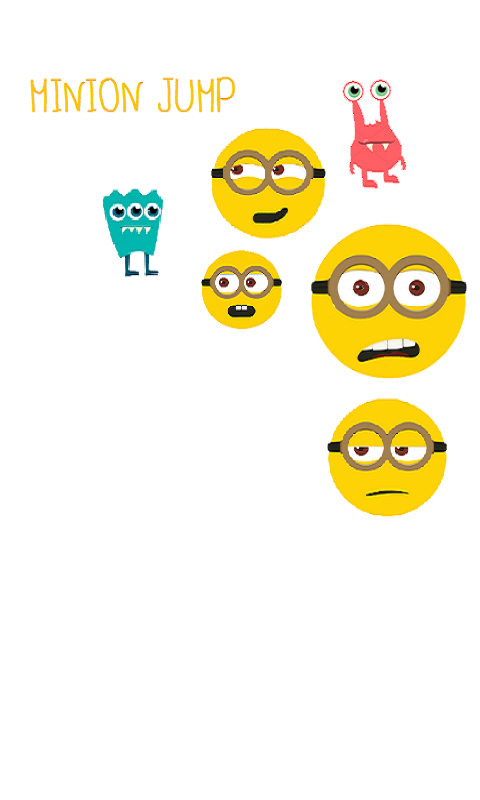
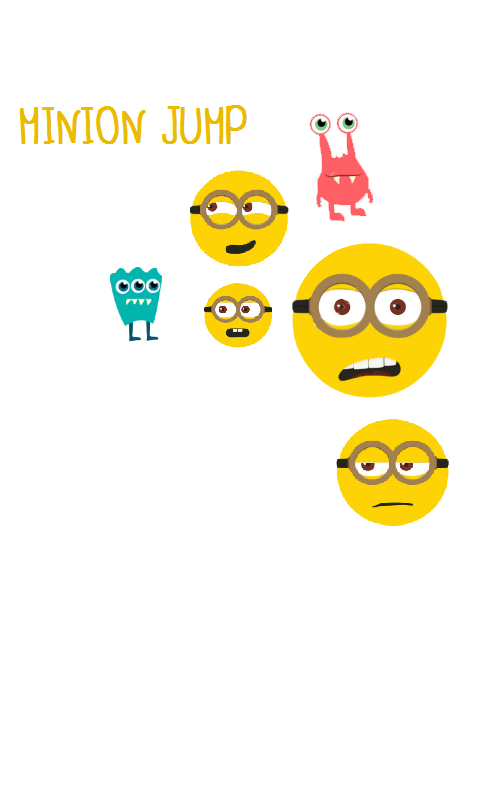
Added buttons of "Scores" and "Options" to main menu

Changed region(s): [[0.0312, 0.0938, 0.9688, 0.6562], [0.2188, 0.2188, 0.3438, 0.4375]]

diff --git a/core/src/com/minionjump/game/view/MainMenu.java b/core/src/com/minionjump/game/view/MainMenu.java
@@ -1,4 +1,4 @@
-package com.minionjump.game.States;
+package com.minionjump.game.view;
 
 import com.badlogic.gdx.Gdx;
 import com.badlogic.gdx.graphics.Texture;
@@ -9,20 +9,24 @@ import com.minionjump.game.MyMinionJump;
  * Created by Mariana on 08/05/2017.
  */
 
-public class MenuState extends State {
+public class MainMenu extends State {
     private Texture background;
     private Texture playBtn;
-    public MenuState(GameStateManager gam) {
+    private Texture scoresBtn;
+    private Texture optionsBtn;
+
+    public MainMenu(GameStateManager gam) {
         super(gam);
         background = new Texture("mainmenu.png");
         playBtn = new Texture("btnplay.png");
+        scoresBtn = new Texture("scores.png");
+        optionsBtn = new Texture("options.png");
     }
 
     @Override
     public void handleInput() {
         if(Gdx.input.justTouched()){
             gam.set(new PlayState(gam));
-            dispose();
         }
     }
 
@@ -35,7 +39,9 @@ public class MenuState extends State {
     public void render(SpriteBatch sb) {
         sb.begin();
         sb.draw(background,0,0, MyMinionJump.WIDTH, MyMinionJump.HEIGHT);
-        sb.draw(playBtn, (MyMinionJump.WIDTH/4)-(playBtn.getWidth()/4), MyMinionJump.HEIGHT/3);
+        sb.draw(playBtn, (MyMinionJump.WIDTH/4)-(playBtn.getWidth()/3), MyMinionJump.HEIGHT/3);
+        sb.draw(scoresBtn, (MyMinionJump.WIDTH) - (optionsBtn.getWidth()), scoresBtn.getHeight() - (scoresBtn.getHeight()-1));
+        sb.draw(optionsBtn, (MyMinionJump.WIDTH/2) - (scoresBtn.getWidth()/5), (optionsBtn.getHeight()-5) - (optionsBtn.getHeight()));
         sb.end();
     }
 
@@ -43,5 +49,8 @@ public class MenuState extends State {
     public void dispose() {
         background.dispose();
         playBtn.dispose();
+        scoresBtn.dispose();
+        optionsBtn.dispose();
+        System.out.println("Menu State Disposed");
     }
 }

diff --git a/core/src/com/minionjump/game/view/PlayState.java b/core/src/com/minionjump/game/view/PlayState.java
@@ -1,4 +1,4 @@
-package com.minionjump.game.States;
+package com.minionjump.game.view;
 
 import com.badlogic.gdx.Gdx;
 import com.badlogic.gdx.graphics.Texture;
@@ -13,7 +13,7 @@ import com.minionjump.game.model.Platform;
  */
 
 public class PlayState extends State {
-    private static final int PLATFORM_SPACING = 125;
+    private static final int PLATFORM_SPACING = 100;
     private static final int PLATFORM_COUNT = 6;
 
     private Minion minion;
@@ -23,7 +23,7 @@ public class PlayState extends State {
 
     public PlayState(GameStateManager gam) {
         super(gam);
-        minion = new Minion(50, 300);
+        minion = new Minion(150, 300);
         cam.setToOrtho(false, MyMinionJump.WIDTH, MyMinionJump.HEIGHT);
         bg = new Texture("background.png");
 
@@ -46,9 +46,14 @@ public class PlayState extends State {
         minion.update(dt);
         cam.position.y = minion.getPosition().y + 80;
 
-        for(Platform platform : platforms){
+        for(int i = 0; i < platforms.size; i++){
+            Platform platform = platforms.get(i);
+
             if(cam.position.x - (cam.viewportWidth / 2) > platform.getPosNormalPlatform().x + platform.getNormalPlatform().getWidth())
                 platform.reposition(platform.getPosNormalPlatform().x + ((Platform.PLATFORM_HEIGHT + PLATFORM_SPACING) * PLATFORM_COUNT));
+
+            if(platform.collides(minion.getBounds()))
+                minion.jump();
         }
         cam.update();
     }
@@ -68,6 +73,10 @@ public class PlayState extends State {
 
     @Override
     public void dispose() {
-
+        bg.dispose();
+        minion.dispose();
+        for(Platform platform : platforms)
+            platform.dispose();
+        System.out.println("Play State Disposed");
     }
 }

diff --git a/core/src/com/minionjump/game/model/Platform.java b/core/src/com/minionjump/game/model/Platform.java
@@ -1,6 +1,7 @@
 package com.minionjump.game.model;
 
 import com.badlogic.gdx.graphics.Texture;
+import com.badlogic.gdx.math.Rectangle;
 import com.badlogic.gdx.math.Vector2;
 
 import java.util.Random;
@@ -14,9 +15,10 @@ public class Platform {
 
     private static final int FLUCTUATION = 130;
     private static final int PLATFORM_GAP = 40;
-    private static final int LOWEST_OPENING = 190;
+    private static final int LOWEST_OPENING = 200;
     private Texture splitPlatform, normalPlatform;
     private Vector2 posSplitPlatform, posNormalPlatform;
+    private Rectangle boundsPlatform;
     private Random rand;
 
     public Platform(float y){
@@ -26,6 +28,8 @@ public class Platform {
 
         posSplitPlatform = new Vector2(rand.nextInt(FLUCTUATION) + PLATFORM_GAP + LOWEST_OPENING, y);
         posNormalPlatform = new Vector2(rand.nextInt(FLUCTUATION) + PLATFORM_GAP, y);
+
+        boundsPlatform = new Rectangle(posNormalPlatform.x, posNormalPlatform.y, normalPlatform.getWidth(), normalPlatform.getHeight());
     }
 
     public Texture getSplitPlatform() {
@@ -48,6 +52,16 @@ public class Platform {
         posNormalPlatform.set(rand.nextInt(FLUCTUATION) + PLATFORM_GAP, y);
         posSplitPlatform.set(rand.nextInt(FLUCTUATION) + PLATFORM_GAP + LOWEST_OPENING, y);
 
+        boundsPlatform.setPosition(posNormalPlatform.x, posNormalPlatform.y);
+    }
+
+    public boolean collides(Rectangle player) {
+        return player.overlaps(boundsPlatform);
+    }
+
+    public void dispose(){
+        normalPlatform.dispose();
+        splitPlatform.dispose();
     }
 
 }

diff --git a/core/src/com/minionjump/game/model/Minion.java b/core/src/com/minionjump/game/model/Minion.java
@@ -1,6 +1,7 @@
 package com.minionjump.game.model;
 
 import com.badlogic.gdx.graphics.Texture;
+import com.badlogic.gdx.math.Rectangle;
 import com.badlogic.gdx.math.Vector3;
 
 /**
@@ -12,6 +13,7 @@ public class Minion {
     private static  final int MOVEMENT = 100;
     private Vector3 position;
     private Vector3 velocity;
+    private Rectangle bounds;
 
     private Texture minion;
 
@@ -19,6 +21,7 @@ public class Minion {
         position = new Vector3(x, y, 0);
         velocity = new Vector3(0, 0, 0);
         minion = new Texture("minion.png");
+        bounds = new Rectangle(x, y, minion.getWidth(), minion.getHeight());
     }
 
     public void update(float dt){
@@ -30,6 +33,7 @@ public class Minion {
             position.y = 0;
 
         velocity.scl(1/dt);
+        bounds.setPosition(position.x, position.y);
     }
 
     public Vector3 getPosition() {
@@ -42,5 +46,13 @@ public class Minion {
 
     public void jump(){
         velocity.y = 250;
+    }
+
+    public Rectangle getBounds(){
+        return bounds;
+    }
+
+    public void dispose() {
+        minion.dispose();
     }
 }

diff --git a/core/src/com/minionjump/game/MyMinionJump.java b/core/src/com/minionjump/game/MyMinionJump.java
@@ -2,12 +2,10 @@ package com.minionjump.game;
 
 import com.badlogic.gdx.ApplicationAdapter;
 import com.badlogic.gdx.Gdx;
-import com.badlogic.gdx.assets.AssetManager;
 import com.badlogic.gdx.graphics.GL20;
-import com.badlogic.gdx.graphics.Texture;
 import com.badlogic.gdx.graphics.g2d.SpriteBatch;
-import com.minionjump.game.States.GameStateManager;
-import com.minionjump.game.States.MenuState;
+import com.minionjump.game.view.GameStateManager;
+import com.minionjump.game.view.MainMenu;
 
 public class MyMinionJump extends ApplicationAdapter {
 	public static final int HEIGHT = 800;
@@ -22,7 +20,7 @@ public class MyMinionJump extends ApplicationAdapter {
 		batch = new SpriteBatch();
 		gam = new GameStateManager();
 		Gdx.gl.glClearColor(1,0,0,1);
-		gam.push(new MenuState(gam));
+		gam.push(new MainMenu(gam));
 	}
 
 	public void render(){

diff --git a/core/src/com/minionjump/game/view/GameStateManager.java b/core/src/com/minionjump/game/view/GameStateManager.java
@@ -1,4 +1,4 @@
-package com.minionjump.game.States;
+package com.minionjump.game.view;
 
 import com.badlogic.gdx.graphics.g2d.SpriteBatch;
 
@@ -21,11 +21,11 @@ public class GameStateManager {
     }
 
     public void pop(){
-        states.pop();
+        states.pop().dispose();
     }
 
     public void set(State state){
-        states.pop();
+        states.pop().dispose();
         states.push(state);
     }
 

diff --git a/core/src/com/minionjump/game/view/State.java b/core/src/com/minionjump/game/view/State.java
@@ -1,4 +1,4 @@
-package com.minionjump.game.States;
+package com.minionjump.game.view;
 
 import com.badlogic.gdx.graphics.OrthographicCamera;
 import com.badlogic.gdx.graphics.g2d.SpriteBatch;
